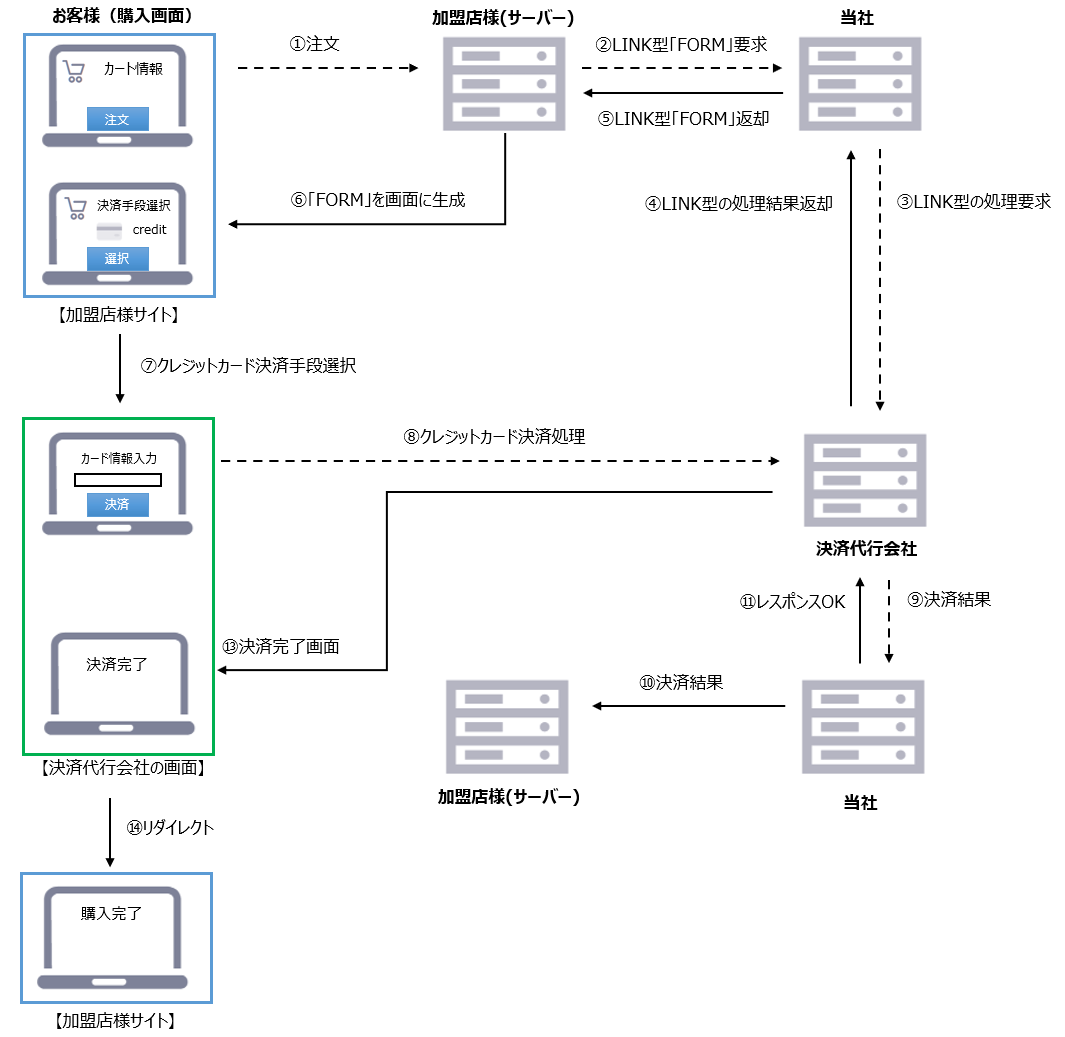
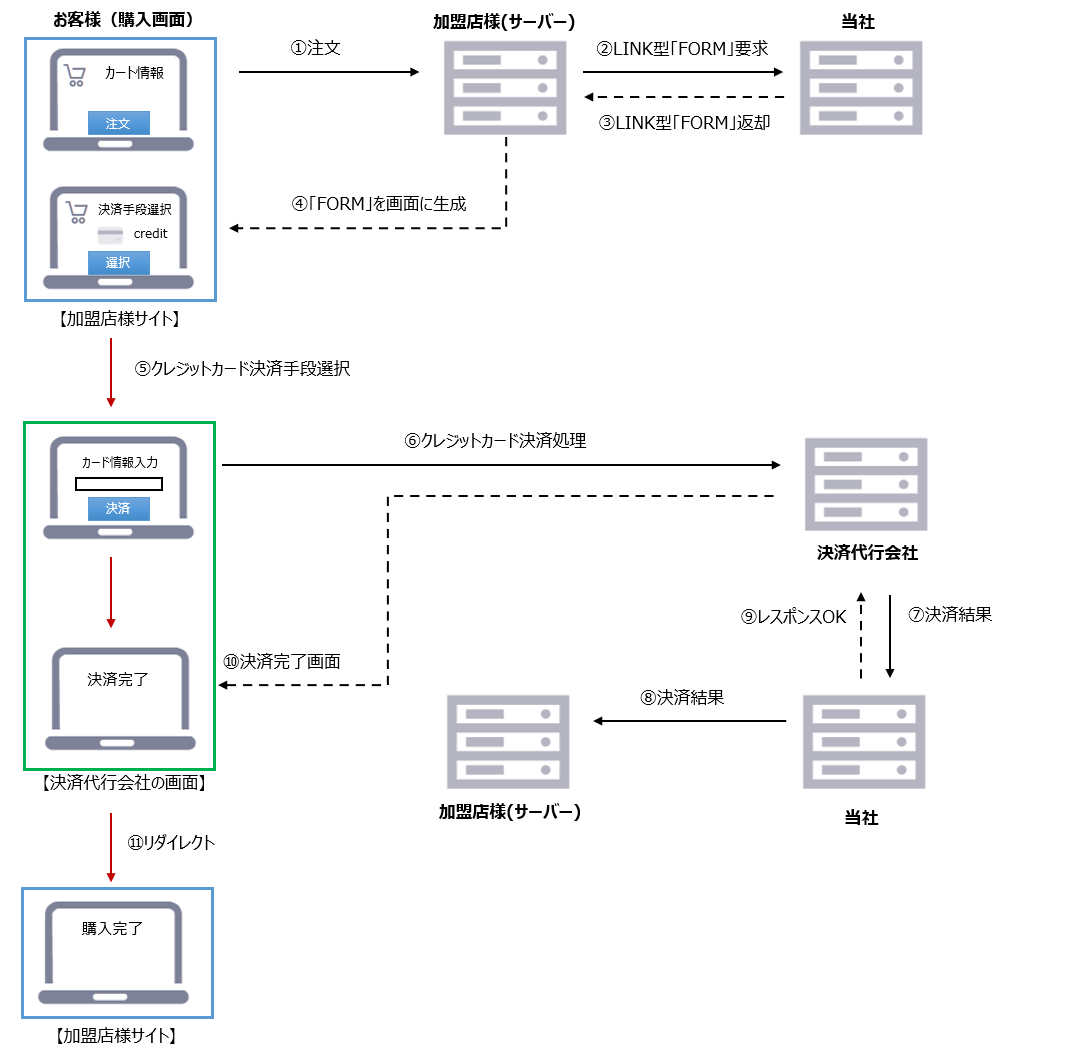
指摘事項反映

diff --git a/index.md b/index.md
@@ -80,7 +80,7 @@ PayRoad-Payment-Method: 決済手段コード
   "testFlag": "0"
 }
 ```
-### ⑤ LINK型「FORM」返却
+### ③ LINK型「FORM」返却
 ```markdown
 返却値（JSON）
 {
@@ -125,7 +125,7 @@ PayRoad-Payment-Method: 決済手段コード
   "resultMessage": "string"
 }
 ```
-### ⑩ 決済結果
+### ⑧ 決済結果
 ```json
 ## LINK型「FORM」要求時に設定したURL（serviceNotifyUrl）に通知されます。
 {
@@ -143,7 +143,7 @@ PayRoad-Payment-Method: 決済手段コード
 }
 
 ```
-### ⑭ リダイレクト
+### ⑪ リダイレクト
 ```text
 LINK型「FORM」要求時に設定したURL（returnUrl）にリダイレクトされます。
 ```
